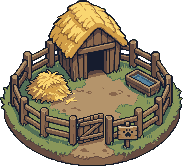
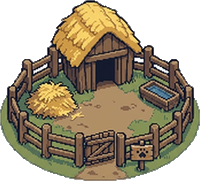
v99: redrawn zoo pen and full pet card backgrounds
Claude-Session: https://claude.ai/code/session_014dDJFgpBf2uephg2yojD2h

diff --git a/index.html b/index.html
@@ -406,7 +406,7 @@ table.cmp .ok{color:#2f7a2a}table.cmp .no{color:#b22a1a}table.cmp tr.bad td{back
 <script>
 "use strict";
 // Phiên bản game: tăng mỗi lần phát hành để người chơi biết đang chạy bản nào
-const GAME_VER='98',GAME_DATE='21/10/2026';
+const GAME_VER='99',GAME_DATE='21/10/2026';
 // ================= cấu hình chung =================
 const T=64;
 const $=id=>document.getElementById(id);
